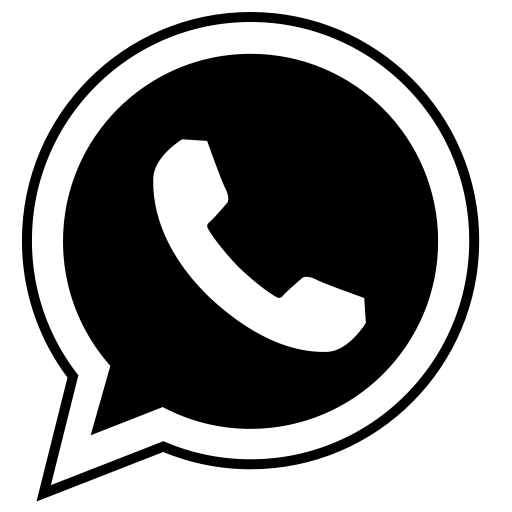
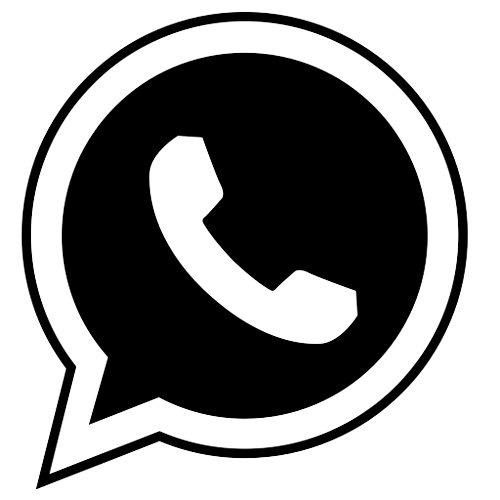
Grid - profes

diff --git a/src/App.css b/src/App.css
@@ -24,15 +24,38 @@ center {
 
 .wtspImage {
   width: 80px;
+  filter: drop-shadow(0px 21px 5px 0px rgba(0, 0, 0, 0.75));
+}
+
+.containerWtspImage {
+  display: inline-block;
+  filter: drop-shadow(0px 21px 5px 0px rgba(0, 0, 0, 0.75));
 }
 
 .CardPeople {
   display: flex;
   justify-content: space-between;
+  min-width: 238px;
+  max-width: 100%;
+  padding: 1% 2% 1% 2%;
+  margin: 1%;
+
+  border: 1px solid blue;
+  border-radius: 10px;
+}
+
+.CardPeople h4 {
+  text-align: start;
+}
+
+.CardPeople p {
+  text-align: start;
+
 }
 
 #CardsPeople {
-  width: 30%;
+  display: grid;
+  grid-template-columns: repeat(auto-fit, minmax(none, 1fr));
 }
 
 h1 {

diff --git a/src/Component/CardPeople.jsx b/src/Component/CardPeople.jsx
@@ -9,9 +9,11 @@ export default function CardPeople({people}){
                 <h4>{name}</h4>
                 <p>{rol} - {rango}</p>
             </div>
-            <a href={`https://wa.me/${cellphone}`}>
-                <img src={logo} alt={cellphone} className="wtspImage"/>
-            </a>
+            <div className="containerWtspImage">
+                <a href={`https://wa.me/${cellphone}`}>
+                    <img src={logo} alt={cellphone} className="wtspImage"/>
+                </a>
+            </div>
         </div>
     )
 }
